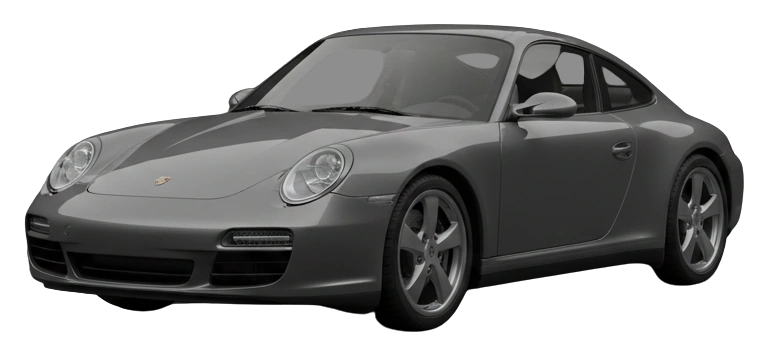
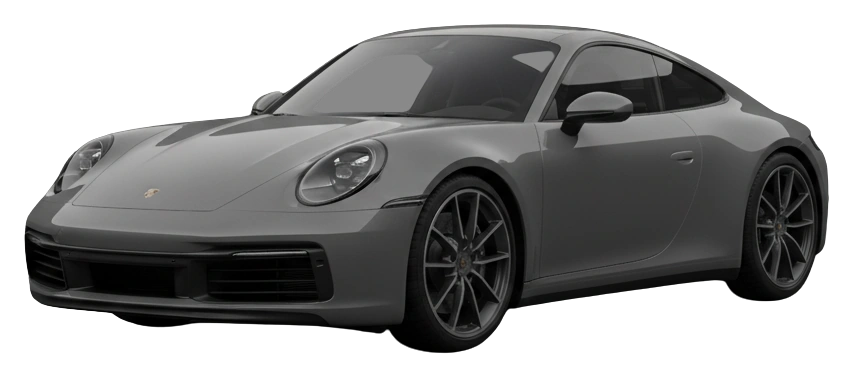
fix: drop the duplicate black swatch, match the 911 set
Midnight black is now skipped for a car that is already black. Next to
obsidian, mythos, carbon or jet black it was a second chip the eye could
not tell from the first — a swatch that changes nothing when clicked is
worse than one fewer swatch. The S 580, RS e-tron GT, X7 and Cayenne
ship four swatches; the other eight keep five. The rule lives in
swatchesFor, so the count is data-driven and the row needs no component
change.

The 911's card and obsidian black still read as an earlier generation
than the three variants regenerated against the tightened desc, so the
row showed a 992 next to something older. Both re-rolled under the same
desc. All five are now the same car.

Slots 155 to 151. Reconciled both ways: every slot has a file, no file
is orphaned. All 56 cut-outs measure facing left. Typecheck and build
clean.

Two remove.bg credits.

Changed region(s): [[0.0, 0.0618, 1.0, 0.9579], [0.7812, 0.4017, 0.8438, 0.4635], [0.25, 0.5253, 0.2812, 0.5562]]

diff --git a/src/data/vehicles.ts b/src/data/vehicles.ts
@@ -83,7 +83,7 @@ export const VEHICLES: Vehicle[] = [
     stockNumber: 'AUR-1041',
     description:
       'The long-wheelbase S-Class is the quietest car in our showroom. It rides on air suspension that reads the road ahead, and the rear cabin is closer to a private room than a back seat. Finished in obsidian black over a cream interior, with chrome window surrounds and multi-spoke alloys.',
-    colours: ['obsidian black metallic', 'graphite grey', 'glacier white', 'silver', 'midnight black'],
+    colours: ['obsidian black metallic', 'graphite grey', 'glacier white', 'silver'],
     specs: {
       engine: '4.0-litre twin-turbo V8 with mild hybrid',
       power: '496 hp',
@@ -270,7 +270,7 @@ export const VEHICLES: Vehicle[] = [
     stockNumber: 'AUR-1046',
     description:
       'Electric, and not apologetic about it. The RS e-tron GT delivers its full torque instantly and silently, which takes most people one launch to adjust to. Mythos black, with a closed front and a stance wide enough to look planted standing still.',
-    colours: ['mythos black metallic', 'graphite grey', 'glacier white', 'silver', 'midnight black'],
+    colours: ['mythos black metallic', 'graphite grey', 'glacier white', 'silver'],
     specs: {
       engine: 'Dual electric motors, 93 kWh battery',
       power: '637 hp',
@@ -346,7 +346,7 @@ export const VEHICLES: Vehicle[] = [
     stockNumber: 'AUR-1048',
     description:
       'Seven seats, and the third row is one adults will actually sit in. The X7 is the largest car in our showroom and hides it well on the move, thanks to air suspension on both axles. Carbon black metallic, with split headlights and chrome trim.',
-    colours: ['carbon black metallic', 'graphite grey', 'glacier white', 'silver', 'midnight black'],
+    colours: ['carbon black metallic', 'graphite grey', 'glacier white', 'silver'],
     specs: {
       engine: '3.0-litre turbocharged inline-six with mild hybrid',
       power: '375 hp',
@@ -459,7 +459,7 @@ export const VEHICLES: Vehicle[] = [
     stockNumber: 'AUR-1051',
     description:
       'The Cayenne Coupe trades a little practicality for a considerably better profile, and the V8 makes a sound no electric SUV can match. Jet black metallic with body-coloured arches and polished alloys, over a black interior.',
-    colours: ['jet black metallic', 'graphite grey', 'glacier white', 'silver', 'midnight black'],
+    colours: ['jet black metallic', 'graphite grey', 'glacier white', 'silver'],
     specs: {
       engine: '4.0-litre twin-turbo V8',
       power: '468 hp',
